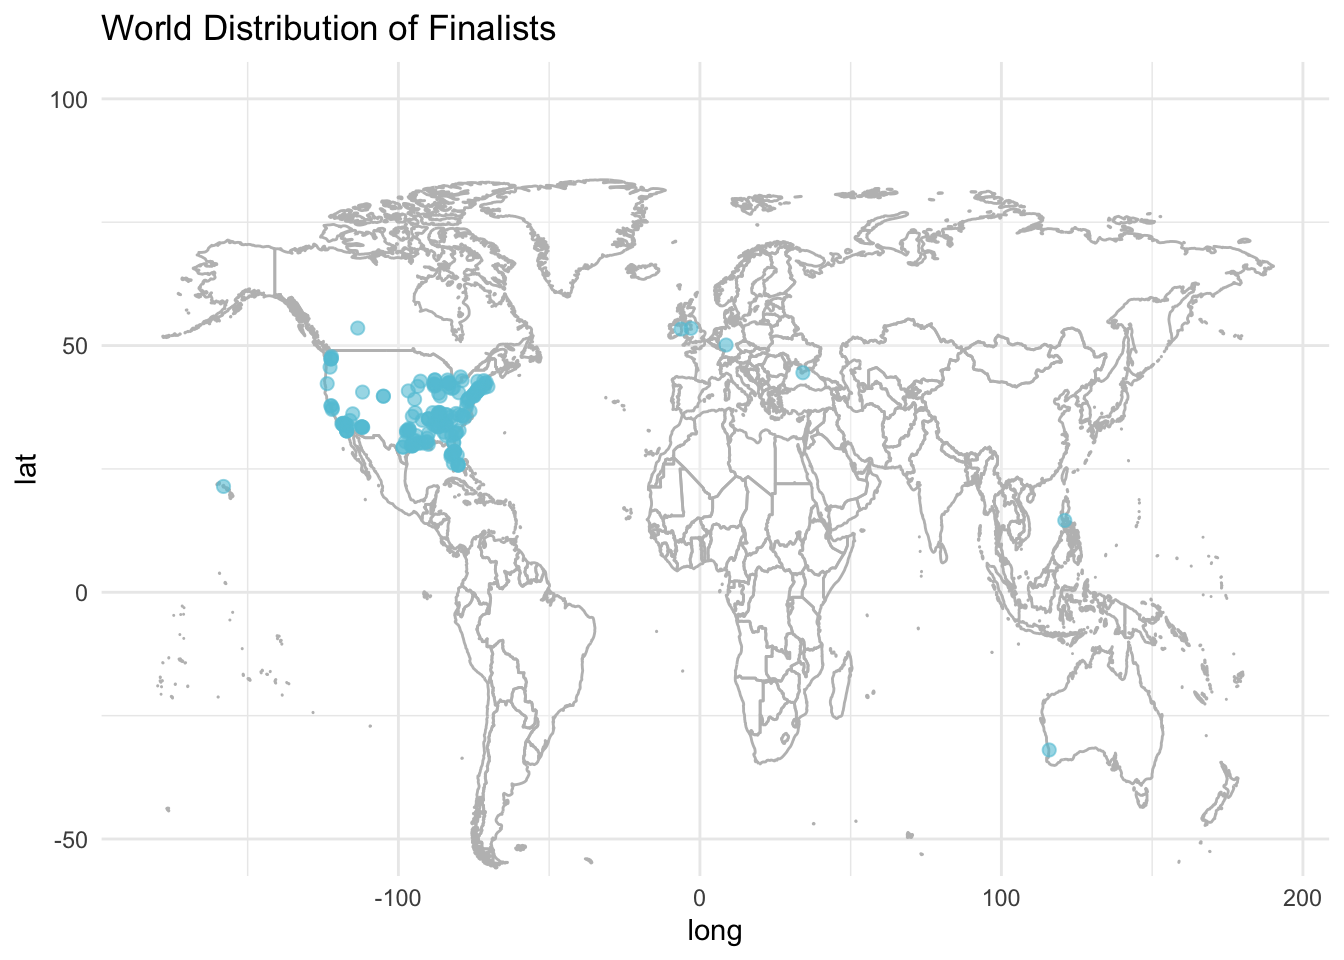
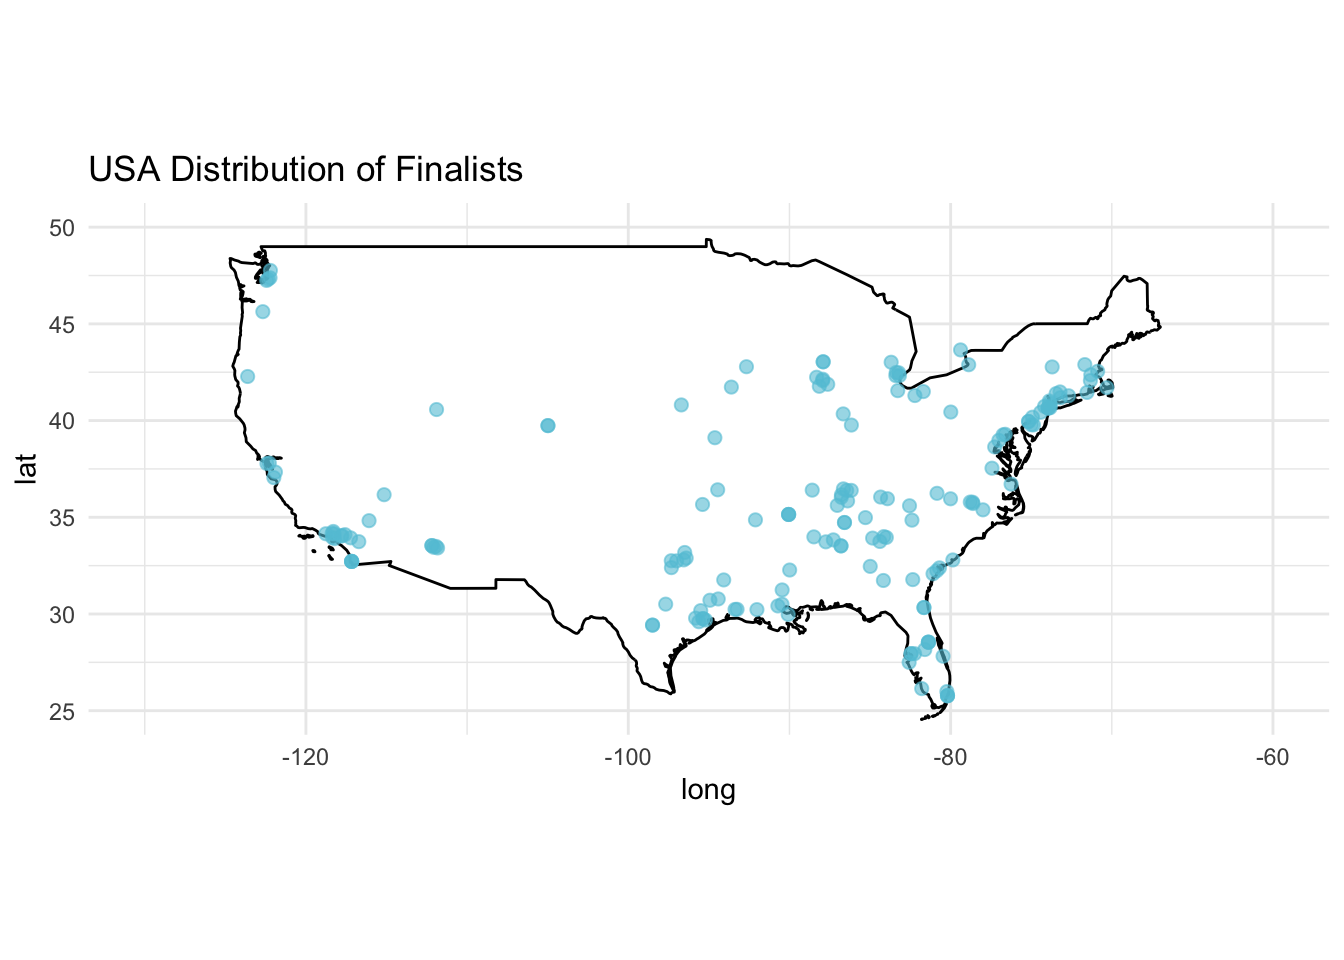
built time series plots

diff --git a/docs/results.html b/docs/results.html
@@ -252,44 +252,22 @@ Attaching package: 'dplyr'</code></pre>
 <pre><code>Passing 163 addresses to the Nominatim single address geocoder</code></pre>
 </div>
 <div class="cell-output cell-output-stderr">
-<pre><code>Query completed in: 164.7 seconds</code></pre>
+<pre><code>Query completed in: 166.2 seconds</code></pre>
 </div>
 </div>
 <div class="cell">
 <details class="code-fold">
 <summary>Code</summary>
-<div class="sourceCode cell-code" id="cb9"><pre class="sourceCode r code-with-copy"><code class="sourceCode r"><span id="cb9-1"><a href="#cb9-1" aria-hidden="true" tabindex="-1"></a>finalists_geocoded</span></code><button title="Copy to Clipboard" class="code-copy-button"><i class="bi"></i></button></pre></div>
-</details>
-<div class="cell-output cell-output-stdout">
-<pre><code># A tibble: 190 × 8
-   Contestant       Birthday Birthplace Hometown Description Season   lat   long
-   &lt;chr&gt;            &lt;chr&gt;    &lt;chr&gt;      &lt;chr&gt;    &lt;chr&gt;        &lt;int&gt; &lt;dbl&gt;  &lt;dbl&gt;
- 1 Kelly Clarkson   24-Apr-… " Fort Wo… Burleso… "She perfo…      1  32.8  -97.3
- 2 Justin Guarini   28-Oct-… " Columbu… Doylest… "He perfor…      1  32.5  -85.0
- 3 Nikki McKibbin   28-Sep-… " Grand P… &lt;NA&gt;     "She had p…      1  32.7  -97.0
- 4 Tamyra Gray      26-Jul-… " Takoma … Atlanta… "She had a…      1  39.0  -77.0
- 5 R. J. Helton     17-May-… " Pasaden… Cumming… "J. Helton…      1  29.7  -95.2
- 6 Christina Chris… 21-Jun-… " Brookly… &lt;NA&gt;     ".Christin…      1  40.7  -73.9
- 7 Ryan Starr       21-Nov-… " Sunland… &lt;NA&gt;     "Her audit…      1  34.3 -118. 
- 8 AJ Gil           5-Jul-84 " San Die… Tacoma,… ""               1  32.7 -117. 
- 9 Jim Verraros     8-Feb-83 " Chicago… &lt;NA&gt;     "He grew u…      1  41.9  -87.6
-10 EJay Day         13-Sep-… " Lawrenc… &lt;NA&gt;     "He auditi…      1  34.0  -84.0
-# ℹ 180 more rows</code></pre>
-</div>
-</div>
-<div class="cell">
-<details class="code-fold">
-<summary>Code</summary>
-<div class="sourceCode cell-code" id="cb11"><pre class="sourceCode r code-with-copy"><code class="sourceCode r"><span id="cb11-1"><a href="#cb11-1" aria-hidden="true" tabindex="-1"></a><span class="fu">ggplot</span>() <span class="sc">+</span> </span>
-<span id="cb11-2"><a href="#cb11-2" aria-hidden="true" tabindex="-1"></a>  <span class="fu">geom_map</span>(<span class="at">data =</span> world_map, <span class="at">map =</span> world_map, </span>
-<span id="cb11-3"><a href="#cb11-3" aria-hidden="true" tabindex="-1"></a>           <span class="fu">aes</span>(<span class="at">x =</span> long, <span class="at">y =</span> lat, <span class="at">map_id =</span> region, <span class="at">group =</span> group), </span>
-<span id="cb11-4"><a href="#cb11-4" aria-hidden="true" tabindex="-1"></a>           <span class="at">fill =</span> <span class="st">"white"</span>, <span class="at">color =</span> <span class="st">"gray"</span>,<span class="at">alpha=</span><span class="fl">0.3</span>) <span class="sc">+</span> </span>
-<span id="cb11-5"><a href="#cb11-5" aria-hidden="true" tabindex="-1"></a>  <span class="fu">geom_point</span>(<span class="at">data =</span> finalists_geocoded, </span>
-<span id="cb11-6"><a href="#cb11-6" aria-hidden="true" tabindex="-1"></a>             <span class="fu">aes</span>(<span class="at">x =</span> long, <span class="at">y =</span> lat), </span>
-<span id="cb11-7"><a href="#cb11-7" aria-hidden="true" tabindex="-1"></a>             <span class="at">color =</span> <span class="st">"#63C5DA"</span>, <span class="at">alpha =</span> <span class="fl">0.6</span>, <span class="at">size =</span> <span class="dv">2</span>) <span class="sc">+</span> </span>
-<span id="cb11-8"><a href="#cb11-8" aria-hidden="true" tabindex="-1"></a>  <span class="fu">theme_minimal</span>() <span class="sc">+</span> </span>
-<span id="cb11-9"><a href="#cb11-9" aria-hidden="true" tabindex="-1"></a>   <span class="fu">ylim</span>(<span class="sc">-</span><span class="dv">50</span>,<span class="dv">100</span>)<span class="sc">+</span></span>
-<span id="cb11-10"><a href="#cb11-10" aria-hidden="true" tabindex="-1"></a>  <span class="fu">ggtitle</span>(<span class="st">"World Distribution of Finalists"</span>)</span></code><button title="Copy to Clipboard" class="code-copy-button"><i class="bi"></i></button></pre></div>
+<div class="sourceCode cell-code" id="cb9"><pre class="sourceCode r code-with-copy"><code class="sourceCode r"><span id="cb9-1"><a href="#cb9-1" aria-hidden="true" tabindex="-1"></a><span class="fu">ggplot</span>() <span class="sc">+</span> </span>
+<span id="cb9-2"><a href="#cb9-2" aria-hidden="true" tabindex="-1"></a>  <span class="fu">geom_map</span>(<span class="at">data =</span> world_map, <span class="at">map =</span> world_map, </span>
+<span id="cb9-3"><a href="#cb9-3" aria-hidden="true" tabindex="-1"></a>           <span class="fu">aes</span>(<span class="at">x =</span> long, <span class="at">y =</span> lat, <span class="at">map_id =</span> region, <span class="at">group =</span> group), </span>
+<span id="cb9-4"><a href="#cb9-4" aria-hidden="true" tabindex="-1"></a>           <span class="at">fill =</span> <span class="st">"white"</span>, <span class="at">color =</span> <span class="st">"gray"</span>,<span class="at">alpha=</span><span class="fl">0.3</span>) <span class="sc">+</span> </span>
+<span id="cb9-5"><a href="#cb9-5" aria-hidden="true" tabindex="-1"></a>  <span class="fu">geom_point</span>(<span class="at">data =</span> finalists_geocoded, </span>
+<span id="cb9-6"><a href="#cb9-6" aria-hidden="true" tabindex="-1"></a>             <span class="fu">aes</span>(<span class="at">x =</span> long, <span class="at">y =</span> lat), </span>
+<span id="cb9-7"><a href="#cb9-7" aria-hidden="true" tabindex="-1"></a>             <span class="at">color =</span> <span class="st">"#63C5DA"</span>, <span class="at">alpha =</span> <span class="fl">0.6</span>, <span class="at">size =</span> <span class="dv">2</span>) <span class="sc">+</span> </span>
+<span id="cb9-8"><a href="#cb9-8" aria-hidden="true" tabindex="-1"></a>  <span class="fu">theme_minimal</span>() <span class="sc">+</span> </span>
+<span id="cb9-9"><a href="#cb9-9" aria-hidden="true" tabindex="-1"></a>   <span class="fu">ylim</span>(<span class="sc">-</span><span class="dv">50</span>,<span class="dv">100</span>)<span class="sc">+</span></span>
+<span id="cb9-10"><a href="#cb9-10" aria-hidden="true" tabindex="-1"></a>  <span class="fu">ggtitle</span>(<span class="st">"World Distribution of Finalists"</span>)</span></code><button title="Copy to Clipboard" class="code-copy-button"><i class="bi"></i></button></pre></div>
 </details>
 <div class="cell-output cell-output-stderr">
 <pre><code>Warning in geom_map(data = world_map, map = world_map, aes(x = long, y = lat, :
@@ -297,6 +275,40 @@ Ignoring unknown aesthetics: x and y</code></pre>
 </div>
 <div class="cell-output cell-output-stderr">
 <pre><code>Warning: Removed 7 rows containing missing values or values outside the scale range
+(`geom_point()`).</code></pre>
+</div>
+<div class="cell-output-display">
+<div>
+<figure class="figure">
+<p><img src="results_files/figure-html/unnamed-chunk-3-1.png" class="img-fluid figure-img" width="672"></p>
+</figure>
+</div>
+</div>
+</div>
+<div class="cell">
+<details class="code-fold">
+<summary>Code</summary>
+<div class="sourceCode cell-code" id="cb12"><pre class="sourceCode r code-with-copy"><code class="sourceCode r"><span id="cb12-1"><a href="#cb12-1" aria-hidden="true" tabindex="-1"></a>usa_map <span class="ot">&lt;-</span> <span class="fu">filter</span>(world_map,region<span class="sc">==</span><span class="st">"USA"</span>)</span>
+<span id="cb12-2"><a href="#cb12-2" aria-hidden="true" tabindex="-1"></a>usa_finalists <span class="ot">&lt;-</span> <span class="fu">filter</span>(finalists_geocoded, long <span class="sc">&lt;</span> <span class="sc">-</span><span class="dv">50</span>, lat <span class="sc">&gt;</span><span class="dv">0</span>)</span>
+<span id="cb12-3"><a href="#cb12-3" aria-hidden="true" tabindex="-1"></a><span class="fu">ggplot</span>() <span class="sc">+</span> </span>
+<span id="cb12-4"><a href="#cb12-4" aria-hidden="true" tabindex="-1"></a>  <span class="fu">geom_map</span>(<span class="at">data =</span> usa_map, <span class="at">map =</span> usa_map, </span>
+<span id="cb12-5"><a href="#cb12-5" aria-hidden="true" tabindex="-1"></a>           <span class="fu">aes</span>(<span class="at">x =</span> long, <span class="at">y =</span> lat, <span class="at">map_id =</span> region, <span class="at">group =</span> group), </span>
+<span id="cb12-6"><a href="#cb12-6" aria-hidden="true" tabindex="-1"></a>           <span class="at">fill =</span> <span class="st">"white"</span>, <span class="at">color =</span> <span class="st">"black"</span>) <span class="sc">+</span> </span>
+<span id="cb12-7"><a href="#cb12-7" aria-hidden="true" tabindex="-1"></a>  <span class="fu">geom_point</span>(<span class="at">data =</span> usa_finalists, </span>
+<span id="cb12-8"><a href="#cb12-8" aria-hidden="true" tabindex="-1"></a>             <span class="fu">aes</span>(<span class="at">x =</span> long, <span class="at">y =</span> lat), </span>
+<span id="cb12-9"><a href="#cb12-9" aria-hidden="true" tabindex="-1"></a>             <span class="at">color =</span> <span class="st">"#63C5DA"</span>, <span class="at">alpha =</span> <span class="fl">0.6</span>, <span class="at">size =</span> <span class="dv">2</span>) <span class="sc">+</span> </span>
+<span id="cb12-10"><a href="#cb12-10" aria-hidden="true" tabindex="-1"></a>  <span class="fu">theme_minimal</span>() <span class="sc">+</span> </span>
+<span id="cb12-11"><a href="#cb12-11" aria-hidden="true" tabindex="-1"></a>  <span class="fu">coord_fixed</span>(<span class="at">ratio=</span><span class="fl">1.2</span>)<span class="sc">+</span></span>
+<span id="cb12-12"><a href="#cb12-12" aria-hidden="true" tabindex="-1"></a>  <span class="fu">xlim</span>(<span class="sc">-</span><span class="dv">130</span>,<span class="sc">-</span><span class="dv">60</span>)<span class="sc">+</span></span>
+<span id="cb12-13"><a href="#cb12-13" aria-hidden="true" tabindex="-1"></a>  <span class="fu">ylim</span>(<span class="dv">25</span>,<span class="dv">50</span>)<span class="sc">+</span></span>
+<span id="cb12-14"><a href="#cb12-14" aria-hidden="true" tabindex="-1"></a>  <span class="fu">ggtitle</span>(<span class="st">"USA Distribution of Finalists"</span>)</span></code><button title="Copy to Clipboard" class="code-copy-button"><i class="bi"></i></button></pre></div>
+</details>
+<div class="cell-output cell-output-stderr">
+<pre><code>Warning in geom_map(data = usa_map, map = usa_map, aes(x = long, y = lat, :
+Ignoring unknown aesthetics: x and y</code></pre>
+</div>
+<div class="cell-output cell-output-stderr">
+<pre><code>Warning: Removed 2 rows containing missing values or values outside the scale range
 (`geom_point()`).</code></pre>
 </div>
 <div class="cell-output-display">
@@ -310,33 +322,37 @@ Ignoring unknown aesthetics: x and y</code></pre>
 <div class="cell">
 <details class="code-fold">
 <summary>Code</summary>
-<div class="sourceCode cell-code" id="cb14"><pre class="sourceCode r code-with-copy"><code class="sourceCode r"><span id="cb14-1"><a href="#cb14-1" aria-hidden="true" tabindex="-1"></a>usa_map <span class="ot">&lt;-</span> <span class="fu">filter</span>(world_map,region<span class="sc">==</span><span class="st">"USA"</span>)</span>
-<span id="cb14-2"><a href="#cb14-2" aria-hidden="true" tabindex="-1"></a>usa_finalists <span class="ot">&lt;-</span> <span class="fu">filter</span>(finalists_geocoded, long <span class="sc">&lt;</span> <span class="sc">-</span><span class="dv">50</span>, lat <span class="sc">&gt;</span><span class="dv">0</span>)</span>
-<span id="cb14-3"><a href="#cb14-3" aria-hidden="true" tabindex="-1"></a><span class="fu">ggplot</span>() <span class="sc">+</span> </span>
-<span id="cb14-4"><a href="#cb14-4" aria-hidden="true" tabindex="-1"></a>  <span class="fu">geom_map</span>(<span class="at">data =</span> usa_map, <span class="at">map =</span> usa_map, </span>
-<span id="cb14-5"><a href="#cb14-5" aria-hidden="true" tabindex="-1"></a>           <span class="fu">aes</span>(<span class="at">x =</span> long, <span class="at">y =</span> lat, <span class="at">map_id =</span> region, <span class="at">group =</span> group), </span>
-<span id="cb14-6"><a href="#cb14-6" aria-hidden="true" tabindex="-1"></a>           <span class="at">fill =</span> <span class="st">"white"</span>, <span class="at">color =</span> <span class="st">"black"</span>) <span class="sc">+</span> </span>
-<span id="cb14-7"><a href="#cb14-7" aria-hidden="true" tabindex="-1"></a>  <span class="fu">geom_point</span>(<span class="at">data =</span> usa_finalists, </span>
-<span id="cb14-8"><a href="#cb14-8" aria-hidden="true" tabindex="-1"></a>             <span class="fu">aes</span>(<span class="at">x =</span> long, <span class="at">y =</span> lat), </span>
-<span id="cb14-9"><a href="#cb14-9" aria-hidden="true" tabindex="-1"></a>             <span class="at">color =</span> <span class="st">"#63C5DA"</span>, <span class="at">alpha =</span> <span class="fl">0.6</span>, <span class="at">size =</span> <span class="dv">2</span>) <span class="sc">+</span> </span>
-<span id="cb14-10"><a href="#cb14-10" aria-hidden="true" tabindex="-1"></a>  <span class="fu">theme_minimal</span>() <span class="sc">+</span> </span>
-<span id="cb14-11"><a href="#cb14-11" aria-hidden="true" tabindex="-1"></a>  <span class="fu">coord_fixed</span>(<span class="at">ratio=</span><span class="fl">1.2</span>)<span class="sc">+</span></span>
-<span id="cb14-12"><a href="#cb14-12" aria-hidden="true" tabindex="-1"></a>  <span class="fu">xlim</span>(<span class="sc">-</span><span class="dv">130</span>,<span class="sc">-</span><span class="dv">60</span>)<span class="sc">+</span></span>
-<span id="cb14-13"><a href="#cb14-13" aria-hidden="true" tabindex="-1"></a>  <span class="fu">ylim</span>(<span class="dv">25</span>,<span class="dv">50</span>)<span class="sc">+</span></span>
-<span id="cb14-14"><a href="#cb14-14" aria-hidden="true" tabindex="-1"></a>  <span class="fu">ggtitle</span>(<span class="st">"USA Distribution of Finalists"</span>)</span></code><button title="Copy to Clipboard" class="code-copy-button"><i class="bi"></i></button></pre></div>
+<div class="sourceCode cell-code" id="cb15"><pre class="sourceCode r code-with-copy"><code class="sourceCode r"><span id="cb15-1"><a href="#cb15-1" aria-hidden="true" tabindex="-1"></a>elim <span class="ot">&lt;-</span> <span class="fu">read.csv</span>(<span class="st">"elimination_chart.csv"</span>)</span>
+<span id="cb15-2"><a href="#cb15-2" aria-hidden="true" tabindex="-1"></a>elim_cleaned <span class="ot">&lt;-</span> elim <span class="sc">|&gt;</span></span>
+<span id="cb15-3"><a href="#cb15-3" aria-hidden="true" tabindex="-1"></a>  <span class="fu">filter</span>(<span class="sc">!</span><span class="fu">is.na</span>(gender) <span class="sc">&amp;</span> <span class="sc">!</span><span class="fu">is.na</span>(season))</span>
+<span id="cb15-4"><a href="#cb15-4" aria-hidden="true" tabindex="-1"></a></span>
+<span id="cb15-5"><a href="#cb15-5" aria-hidden="true" tabindex="-1"></a><span class="fu">ggplot</span>(elim_cleaned, <span class="fu">aes</span>(<span class="at">x=</span>gender))<span class="sc">+</span></span>
+<span id="cb15-6"><a href="#cb15-6" aria-hidden="true" tabindex="-1"></a>  <span class="fu">geom_bar</span>(<span class="at">fill=</span><span class="st">"#63C5DA"</span>,<span class="at">color=</span><span class="st">"black"</span>)<span class="sc">+</span></span>
+<span id="cb15-7"><a href="#cb15-7" aria-hidden="true" tabindex="-1"></a>  <span class="fu">facet_wrap</span>(<span class="sc">~</span> season,<span class="at">scales=</span><span class="st">"free_x"</span>,<span class="at">labeller =</span> <span class="fu">labeller</span>(<span class="at">season =</span> <span class="cf">function</span>(x) <span class="fu">paste</span>(<span class="st">"Season"</span>, x)))<span class="sc">+</span></span>
+<span id="cb15-8"><a href="#cb15-8" aria-hidden="true" tabindex="-1"></a>  <span class="fu">labs</span>(<span class="at">title =</span> <span class="st">"Gender Distribution by Season"</span>, <span class="at">x =</span> <span class="st">"Gender"</span>, <span class="at">y=</span><span class="st">"Count"</span>)<span class="sc">+</span></span>
+<span id="cb15-9"><a href="#cb15-9" aria-hidden="true" tabindex="-1"></a>  <span class="fu">theme_minimal</span>()</span></code><button title="Copy to Clipboard" class="code-copy-button"><i class="bi"></i></button></pre></div>
 </details>
-<div class="cell-output cell-output-stderr">
-<pre><code>Warning in geom_map(data = usa_map, map = usa_map, aes(x = long, y = lat, :
-Ignoring unknown aesthetics: x and y</code></pre>
-</div>
-<div class="cell-output cell-output-stderr">
-<pre><code>Warning: Removed 2 rows containing missing values or values outside the scale range
-(`geom_point()`).</code></pre>
-</div>
 <div class="cell-output-display">
 <div>
 <figure class="figure">
 <p><img src="results_files/figure-html/unnamed-chunk-5-1.png" class="img-fluid figure-img" width="672"></p>
+</figure>
+</div>
+</div>
+</div>
+<div class="cell">
+<details class="code-fold">
+<summary>Code</summary>
+<div class="sourceCode cell-code" id="cb16"><pre class="sourceCode r code-with-copy"><code class="sourceCode r"><span id="cb16-1"><a href="#cb16-1" aria-hidden="true" tabindex="-1"></a> filtered_gender <span class="ot">&lt;-</span> elim_cleaned[elim_cleaned<span class="sc">$</span>place <span class="sc">==</span> <span class="dv">1</span>, ] </span>
+<span id="cb16-2"><a href="#cb16-2" aria-hidden="true" tabindex="-1"></a><span class="fu">ggplot</span>(filtered_gender, <span class="fu">aes</span>(<span class="at">x =</span> gender)) <span class="sc">+</span> </span>
+<span id="cb16-3"><a href="#cb16-3" aria-hidden="true" tabindex="-1"></a>  <span class="fu">geom_bar</span>(<span class="at">fill=</span><span class="st">"#63C5DA"</span>,<span class="at">color=</span><span class="st">"black"</span>) <span class="sc">+</span> </span>
+<span id="cb16-4"><a href="#cb16-4" aria-hidden="true" tabindex="-1"></a>  <span class="fu">labs</span>(<span class="at">title =</span> <span class="st">"Gender Distribution of Winners"</span>, <span class="at">x =</span> <span class="st">"Gender"</span>, <span class="at">y =</span> <span class="st">"Count"</span>) <span class="sc">+</span> </span>
+<span id="cb16-5"><a href="#cb16-5" aria-hidden="true" tabindex="-1"></a>  <span class="fu">theme_minimal</span>()</span></code><button title="Copy to Clipboard" class="code-copy-button"><i class="bi"></i></button></pre></div>
+</details>
+<div class="cell-output-display">
+<div>
+<figure class="figure">
+<p><img src="results_files/figure-html/unnamed-chunk-6-1.png" class="img-fluid figure-img" width="672"></p>
 </figure>
 </div>
 </div>
